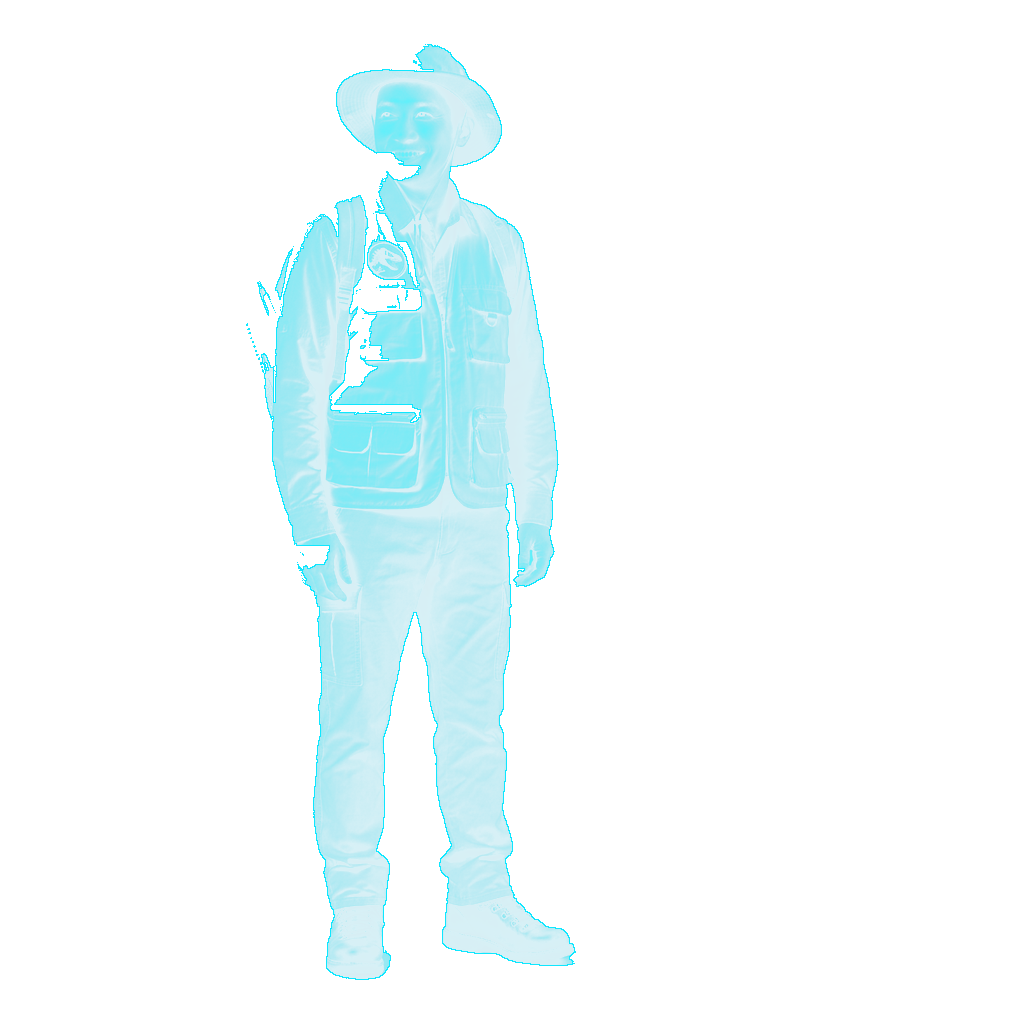
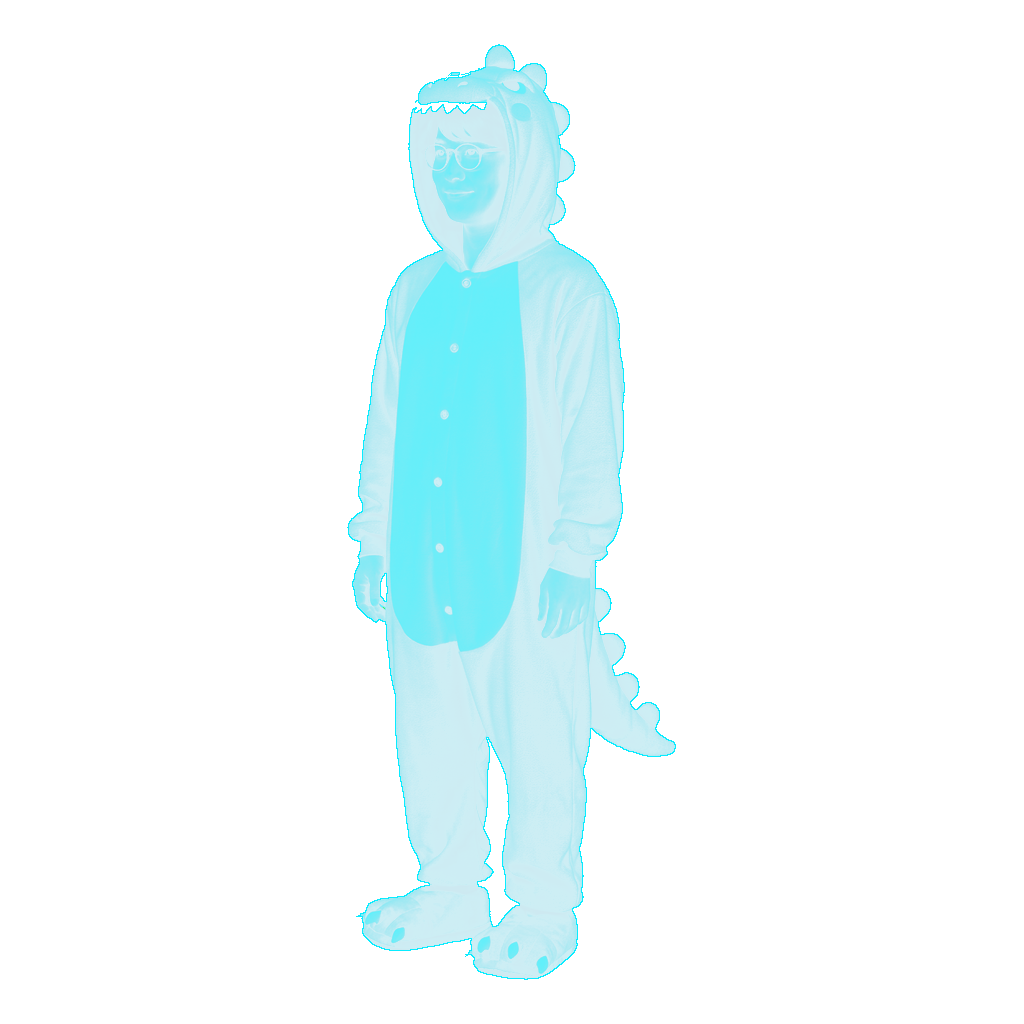
Implement official DINO Papa character design (dinosaur kigurumi & round glasses) with clean cutouts

Changed region(s): [[0.25, 0.0312, 0.6562, 0.9688]]

diff --git a/docs/tasks/archive.md b/docs/tasks/archive.md
@@ -23,11 +23,11 @@
   - **既存リアル対決アセット3種の白残り・ハロー完全除去**:
     - ステゴサウルス（`stegosaurus_battle.webp`）、プテラノドン（`pteranodon_battle.webp`）、ケツァルコアトルス（`quetzalcoatlus_battle.webp`）について、初期処理時にLanczos3リサンプリングで発生していた輪郭部の微小半透明白ピクセル（約3,000〜5,000px）を `clean_cutout_v3.mjs` で再処理。
     - 透過ピクセル（RGB=0）初期化、`a <= 45` ゼロ化、エッジ白色除去・背景色ブレンド最適化により、低Alpha白ピクセルおよび白枠残骸を0%に撲滅。漆黒のステージ背景への完全な溶け込みを達成。
-  - **新規リファレンス対象「DINOパパ (1.7m)」の生成 ＆ 実装**:
-    - ユーザーご要望に基づき、探検家・古生物学者スタイルの日本人男性キャラクター「DINOパパ」（サファリハット、多機能サファリベスト、フィールドウェア、ブーツ、笑顔の立ち姿）を新規生成。
-    - **リアル対決モードアセット（`public/images/cyber/dino_papa_real.webp`）**: 1024x1024 4ch透過WebP、精密接地スキャン（`contentHeightPx: 936, bottomGap: 44`）により、標準人間1.7mと1:1で完全一致する高精細フォトリアル画像として実装。
-    - **骨格実寸モードアセット（`public/images/cyber/dino_papa_front.webp`）**: サイバーホログラム調のシアン系エッジ発光アイコンを作成し、骨格モード選択時にも自然に切り替わるよう対応。
-    - `REFERENCE_ASSETS`（`src/data/cyberAssets.ts`）およびセレクター、サイズ比較ロジック（`src/pages/size-comparison.astro`）に組み込み、1.7mの正確なサイズ比較表示とパディングテーブル位置調整（`left: 246, right: 448`）を完了。
+  - **新規リファレンス対象「DINOパパ (1.7m)」の公式キャラクターデザイン実写化 ＆ 完全実装**:
+    - サイト公式プロフィール（`public/images/plofile/profile_image.webp`）のキャラクターデザイン（丸メガネ、頭部に目と牙が付いた緑色恐竜着ぐるみ、クリームイエローの腹部、恐竜の爪付きスリッパ、優しい笑顔の日本人男性）を忠実に実写化した全身モデルを生成。
+    - **リアル対決モードアセット（`public/images/cyber/dino_papa_real.webp`）**: 1024x1024 4ch透過WebP。黄色いお腹パッチの不透明維持、両脚間および手首と胴体の間の閉じた白背景ポケットの完全透過、精密接地スキャン（`contentHeightPx: 936, bottomGap: 44`）により、標準人間1.7mと1:1で完全一致する高精細フォトリアル画像として実装。
+    - **骨格実寸モードアセット（`public/images/cyber/dino_papa_front.webp`）**: 恐竜着ぐるみのシルエットを模したシアン系エッジ発光サイバーホログラム調アイコンを作成し、骨格モード選択時にも自然に切り替わるよう対応。
+    - `REFERENCE_ASSETS`（`src/data/cyberAssets.ts`）およびセレクター、サイズ比較ロジック（`src/pages/size-comparison.astro`）に組み込み、1.7mの正確なサイズ比較表示とパディングテーブル位置調整（`left: 347, right: 348`）を完了。
   - `ASTRO_TELEMETRY_DISABLED=1 npm run build`（全414ページ）ビルド検証およびブラウザサブエージェントによる実機スクリーンショット検証完了。
 
 - [x] **リアル対決モード恐竜5種（カルノタウルス、テリジノサウルス、ディロフォサウルス、フクイラプトル、フタバサウルス）のリアル対決アセット追加 ＆ 実寸1:1同期・宿命の対決プリセット拡充 ＆ エッジ白残り完全除去・テリジノサウルス上部見切れ解消** (2026/11/22)
